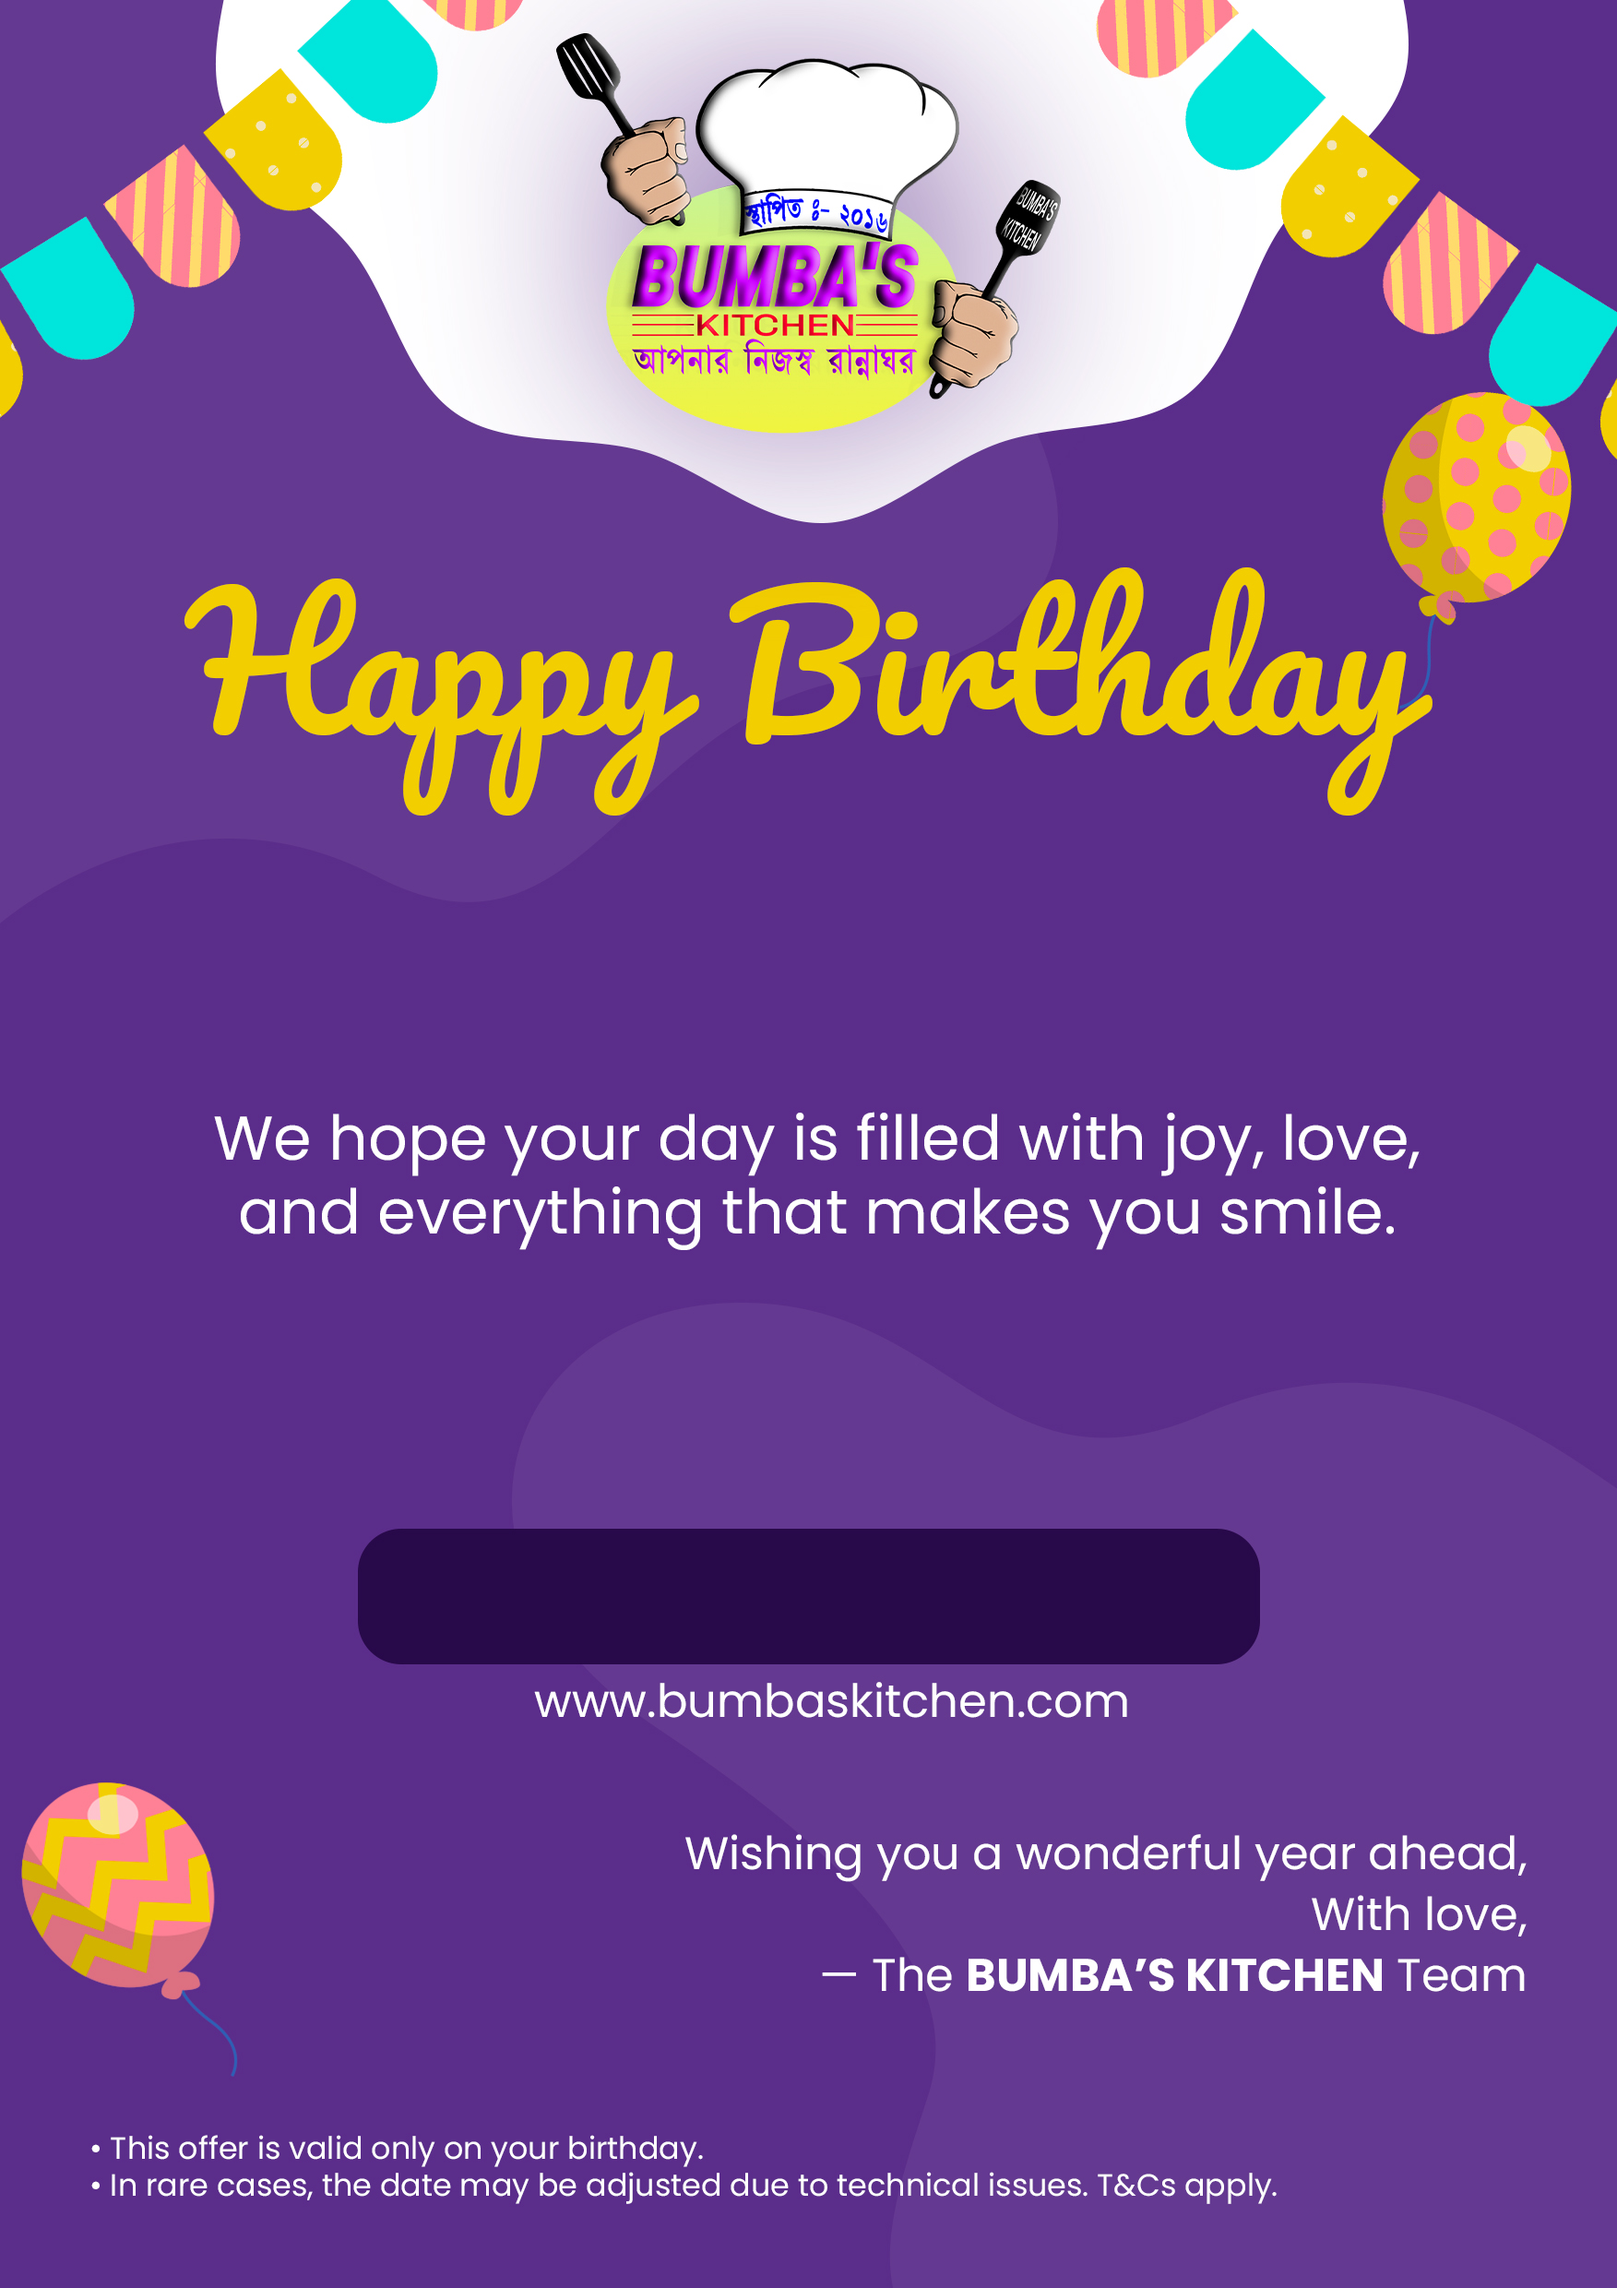
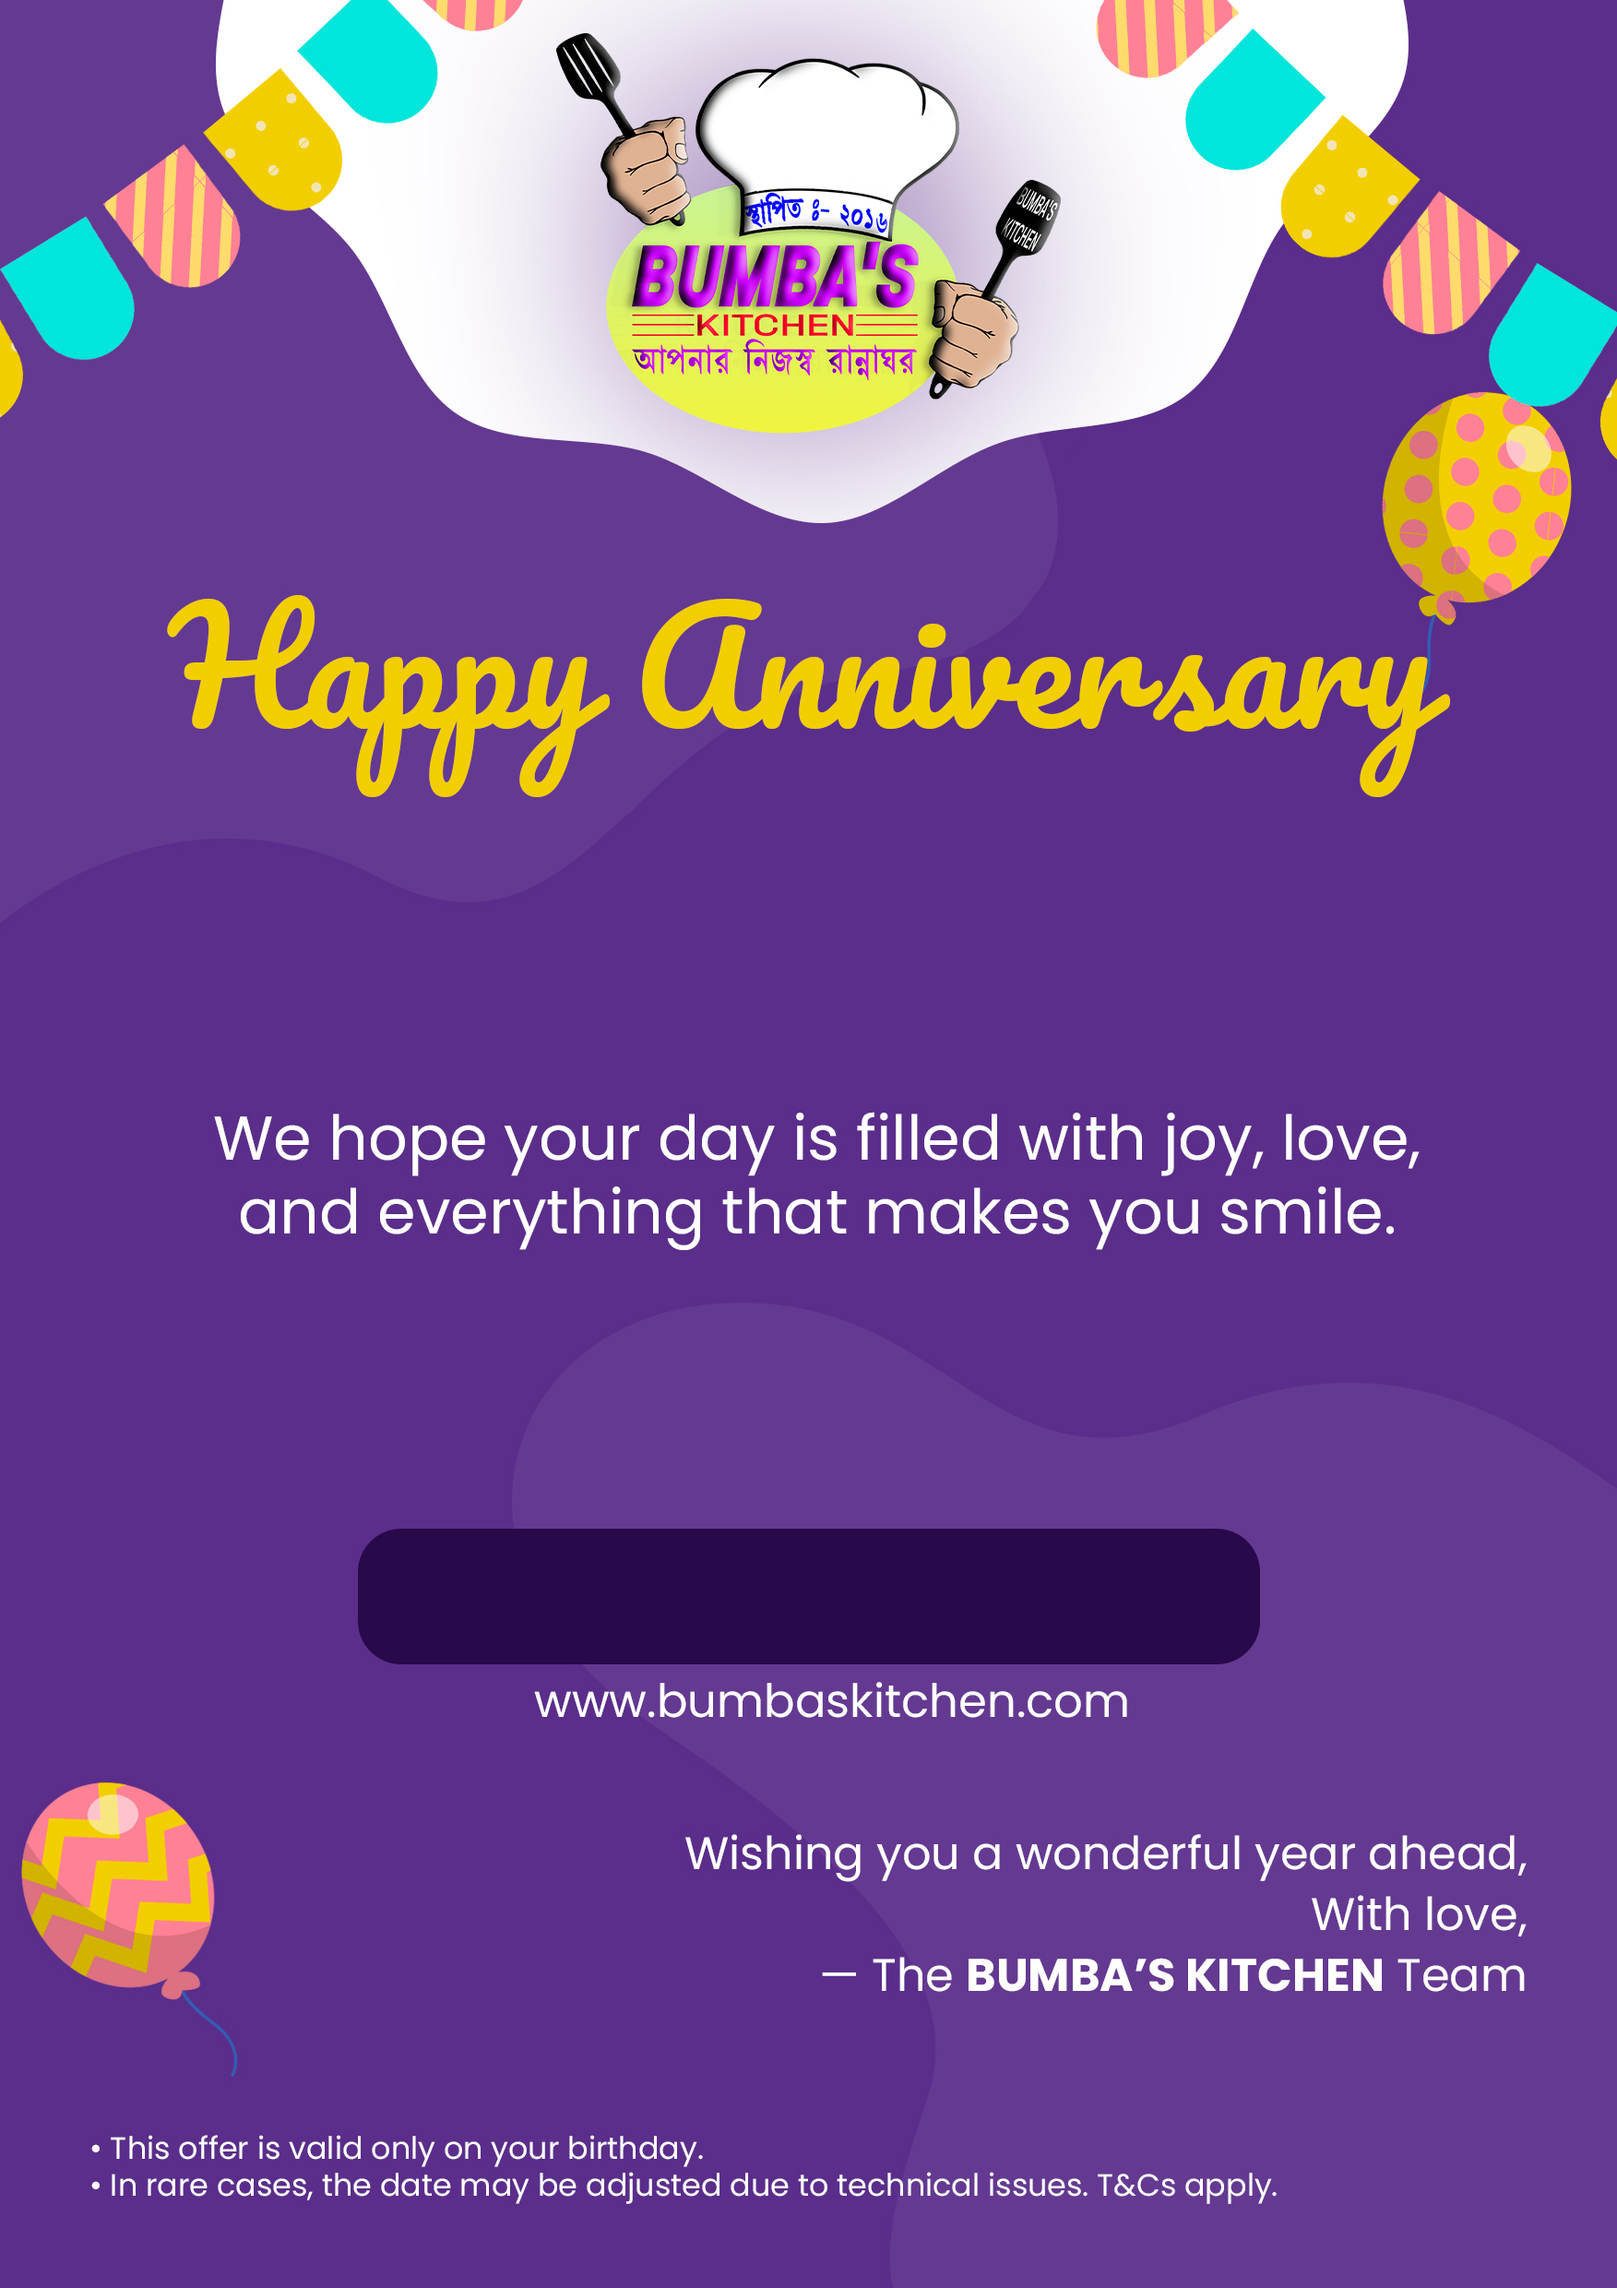
2

Changed region(s): [[0.0924, 0.2484, 0.8933, 0.3726]]

diff --git a/src/app/admin/special-dates/page.tsx b/src/app/admin/special-dates/page.tsx
@@ -90,22 +90,22 @@ export default function SpecialDatesPage() {
       setIsDialogOpen(true);
   };
 
-  // ★★★ কুপন কোড জেনারেটর লজিক ★★★
-  const generateCouponCode = (name: string, dateStr: string) => {
+  // কুপন কোড জেনারেটর
+  const generateCouponCode = (name: string, dateStr: string, eventType: string) => {
       const nameParts = name.trim().split(" ");
       const firstInitial = nameParts[0] ? nameParts[0][0].toUpperCase() : "";
       const lastInitial = nameParts.length > 1 ? nameParts[nameParts.length - 1][0].toUpperCase() : "";
       
       const day = new Date(dateStr).getDate();
+      const codeSuffix = eventType === 'anniversary' ? 'ANNI' : 'BDAY';
       
-      return `${firstInitial}${lastInitial}BDAY${day}`;
+      return `${firstInitial}${lastInitial}${codeSuffix}${day}`;
   };
 
   const drawOnCanvas = async (canvas: HTMLCanvasElement) => {
     const ctx = canvas.getContext('2d');
     if (!ctx) return;
 
-    // সাইজ ১৭৫৩ x ২৪৮০
     canvas.width = 1753;
     canvas.height = 2480;
 
@@ -131,43 +131,29 @@ export default function SpecialDatesPage() {
         ctx.textBaseline = "middle";
         const centerX = canvas.width / 2;
 
-        // --- ১. ইউজার নাম (Pacifico Font) ---
         ctx.fillStyle = "#f2ce00"; 
-        // নামের জন্য অনেক বড় ফন্ট (Pacifico)
         ctx.font = "400 200px Pacifico, cursive"; 
-        
-        // নাম বেশি বড় হলে ফন্ট ছোট হবে
         if (title.length > 10) ctx.font = "400 150px Pacifico, cursive";
+        ctx.fillText(title, centerX, 1050); 
         
-        // পজিশন: মাঝখানে, একটু উপরের দিকে
-        ctx.fillText(title, centerX, 1000); 
-        
-        
-        // --- ২. অফার টেক্সট (Poppins Font) ---
-        // তারিখ ফরম্যাট (যেমন: 15 August)
         const eventDate = new Date(date);
         const dateText = eventDate.toLocaleDateString('en-GB', { day: 'numeric', month: 'long' });
         
-        ctx.fillStyle = "#ffffffff"; // সোনালী রঙ
+        ctx.fillStyle = "#ffffffff"; 
         ctx.font = "300 70px Poppins, sans-serif";
         
         const line1 = "As a small celebration from us, enjoy a";
         const line2 = `5% discount on your order after ${dateText}`;
         
-        // পজিশন: নামের নিচে
-        ctx.fillText(line1, centerX, 1500-30);
-        ctx.fillText(line2, centerX, 1590-30);
+        ctx.fillText(line1, centerX, 1470);
+        ctx.fillText(line2, centerX, 1560);
 
-
-        // --- ৩. কুপন কোড (Poppins Font) ---
-        const couponCode = generateCouponCode(title, date);
+        const couponCode = generateCouponCode(title, date, type);
         
         ctx.fillStyle = "#f2ce00"; 
-        ctx.font = "700 85px Poppins, sans-serif"; // বোল্ড ফন্ট
+        ctx.font = "700 85px Poppins, sans-serif"; 
         
-        // পজিশন: অফারের নিচে
         ctx.fillText(`Use code: ${couponCode}`, centerX, 1736);
-
 
     } catch (e) {
         console.error("Canvas drawing error:", e);
@@ -185,7 +171,60 @@ export default function SpecialDatesPage() {
     try {
         let finalImageUrl = manualImageUrl;
 
+        // ১. কুপন তৈরি করা (শুধুমাত্র বার্থডে বা অ্যানিভার্সারির জন্য)
+        if (type === 'birthday' || type === 'anniversary') {
+            const couponCode = generateCouponCode(title, date, type);
+            
+            // --- তারিখ ক্যালকুলেশন (Update) ---
+            
+            // Start Date: ইভেন্ট ডেট থেকে ১ দিন আগে
+            const startDateObj = new Date(date);
+            startDateObj.setDate(startDateObj.getDate() - 1);
+            const startDate = startDateObj.toISOString().split('T')[0];
+
+            // Expiry Date: ইভেন্ট ডেট + ২ দিন
+            const expiryDateObj = new Date(date);
+            expiryDateObj.setDate(expiryDateObj.getDate() + 2);
+            const expiryDate = expiryDateObj.toISOString().split('T')[0];
+
+            try {
+                const couponRes = await fetch('/api/admin/coupons', {
+                    method: 'POST',
+                    headers: { 
+                        'Content-Type': 'application/json', 
+                        'Authorization': `Bearer ${token}` 
+                    },
+                    body: JSON.stringify({
+                        code: couponCode,
+                        description: `${type === 'birthday' ? 'Birthday' : 'Anniversary'} Special for ${title}`,
+                        discountType: 'percentage',
+                        value: 5, // ৫% ডিসকাউন্ট
+                        minOrder: 0,
+                        usageLimit: 1, // ১ বার ব্যবহারযোগ্য
+                        startDate: startDate, // আপডেট: ১ দিন আগে শুরু
+                        expiryDate: expiryDate, // ২ দিন পর শেষ
+                        isActive: true
+                    })
+                });
+
+                const couponData = await couponRes.json();
+                if (couponRes.ok) {
+                    toast.success("Automatic Coupon Created! 🎟");
+                } else if (couponData.error === 'Coupon code already exists') {
+                    toast.info("Coupon already exists, proceeding...");
+                } else {
+                    console.error("Coupon creation failed:", couponData.error);
+                    toast.warning(`Could not create coupon: ${couponData.error}`);
+                }
+            } catch (couponErr) {
+                console.error("Coupon API Error:", couponErr);
+            }
+        }
+
+        // ২. পোস্টার জেনারেট ও আপলোড
         if ((type === 'birthday' || type === 'anniversary') && canvasRef.current) {
+            toast.info(`Generating ${type === 'birthday' ? 'Birthday' : 'Anniversary'} Poster...`);
+            
             const blob = await new Promise<Blob | null>(resolve => 
                 canvasRef.current?.toBlob(resolve, 'image/jpeg', 0.90)
             );
@@ -206,6 +245,7 @@ export default function SpecialDatesPage() {
             finalImageUrl = uploadData.secure_url;
         }
 
+        // ৩. ইভেন্ট সেভ করা
         const res = await fetch('/api/admin/special-dates', {
             method: 'POST',
             headers: { 'Content-Type': 'application/json', 'Authorization': `Bearer ${token}` },
@@ -213,7 +253,7 @@ export default function SpecialDatesPage() {
         });
 
         if (res.ok) {
-            toast.success("Event Saved Successfully! 🎉");
+            toast.success("Event & Poster Saved Successfully! 🎉");
             setIsDialogOpen(false);
             fetchData();
         } else {
@@ -261,7 +301,7 @@ export default function SpecialDatesPage() {
         </div>
 
         <div className="grid grid-cols-1 lg:grid-cols-2 gap-8">
-            {/* Upcoming Celebrations */}
+            {/* Upcoming Customer Celebrations */}
             <Card className="border-0 shadow-md bg-primary/5 border-primary/10 h-fit">
                 <CardHeader className="pb-3">
                     <CardTitle className="text-lg flex items-center gap-2">
@@ -353,9 +393,8 @@ export default function SpecialDatesPage() {
                 </DialogHeader>
                 
                 <div className="grid md:grid-cols-2 gap-6">
-                    {/* Form Side */}
                     <div className="space-y-4">
-                         <FloatingInput label="Event Title / Name" value={title} onChange={(e) => setTitle(e.target.value)} />
+                         <FloatingInput label="Event Title" value={title} onChange={(e) => setTitle(e.target.value)} />
                          <FloatingInput label="Date" type="date" value={date} onChange={(e) => setDate(e.target.value)} />
                          
                          <div className="space-y-1">
@@ -363,9 +402,9 @@ export default function SpecialDatesPage() {
                             <Select value={type} onValueChange={(val: any) => setType(val)}>
                                 <SelectTrigger className="h-12 rounded-xl"><SelectValue /></SelectTrigger>
                                 <SelectContent>
-                                    <SelectItem value="birthday"><div className="flex items-center gap-2"><Cake className="h-4 w-4 text-pink-500"/> Birthday (Auto Poster)</div></SelectItem>
-                                    <SelectItem value="anniversary"><div className="flex items-center gap-2"><Gift className="h-4 w-4 text-purple-500"/> Anniversary (Auto Poster)</div></SelectItem>
-                                    <SelectItem value="other"><div className="flex items-center gap-2"><CalendarHeart className="h-4 w-4 text-blue-500"/> Other</div></SelectItem>
+                                    <SelectItem value="birthday">Birthday (Auto Poster + Coupon)</SelectItem>
+                                    <SelectItem value="anniversary">Anniversary (Auto Poster + Coupon)</SelectItem>
+                                    <SelectItem value="other">Other</SelectItem>
                                 </SelectContent>
                             </Select>
                         </div>
@@ -383,7 +422,6 @@ export default function SpecialDatesPage() {
                         )}
                     </div>
 
-                    {/* Preview Side */}
                     <div className="flex flex-col items-center justify-center bg-muted/30 rounded-xl border p-4 min-h-[300px]">
                         {type === 'birthday' || type === 'anniversary' ? (
                             <>

diff --git a/src/app/admin/layout.tsx b/src/app/admin/layout.tsx
@@ -39,7 +39,7 @@ const adminNavLinks = [
   { href: '/admin/special-dates', label: 'Events Calendar', icon: Calendar },
   { href: '/admin/hero-slides', label: 'Hero Section', icon: ImageIcon },
   { href: '/admin/offers', label: 'Offers Section', icon: Gift },
-  // { href: '/admin/reports', label: 'Reports', icon: BarChart3 }, 
+  { href: '/admin/reports', label: 'Reports', icon: BarChart3 }, 
   { href: '/admin/notifications', label: 'Push Notifications', icon: Send },
   { href: '/admin/settings', label: 'Settings', icon: Settings },
 ];
